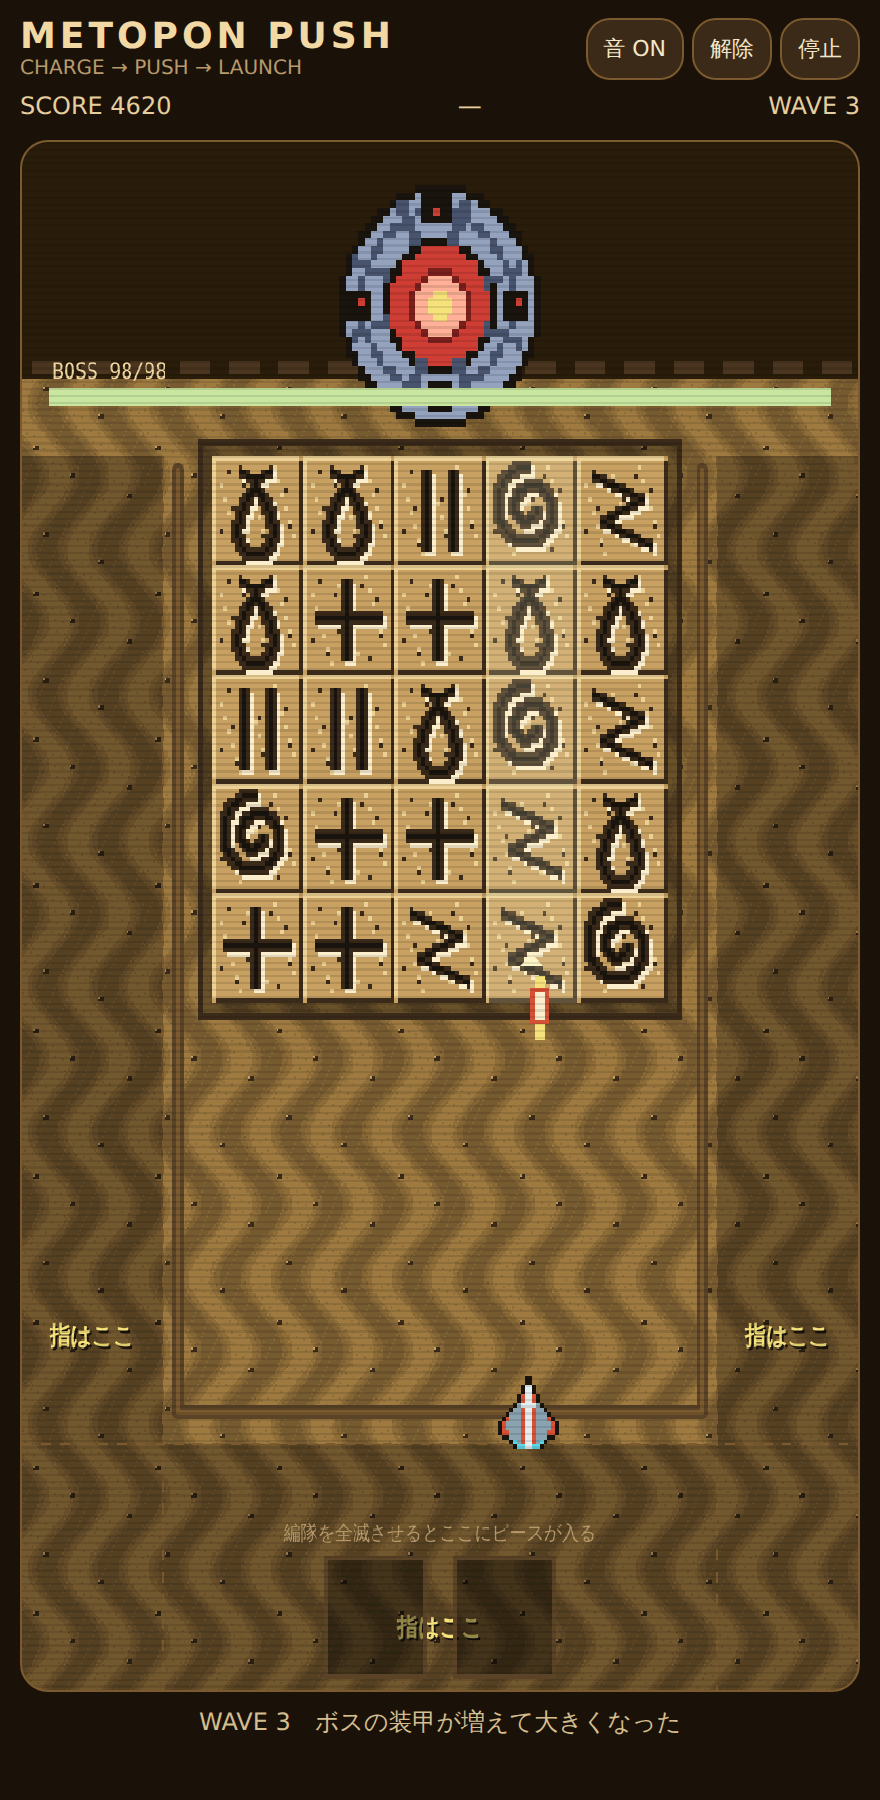
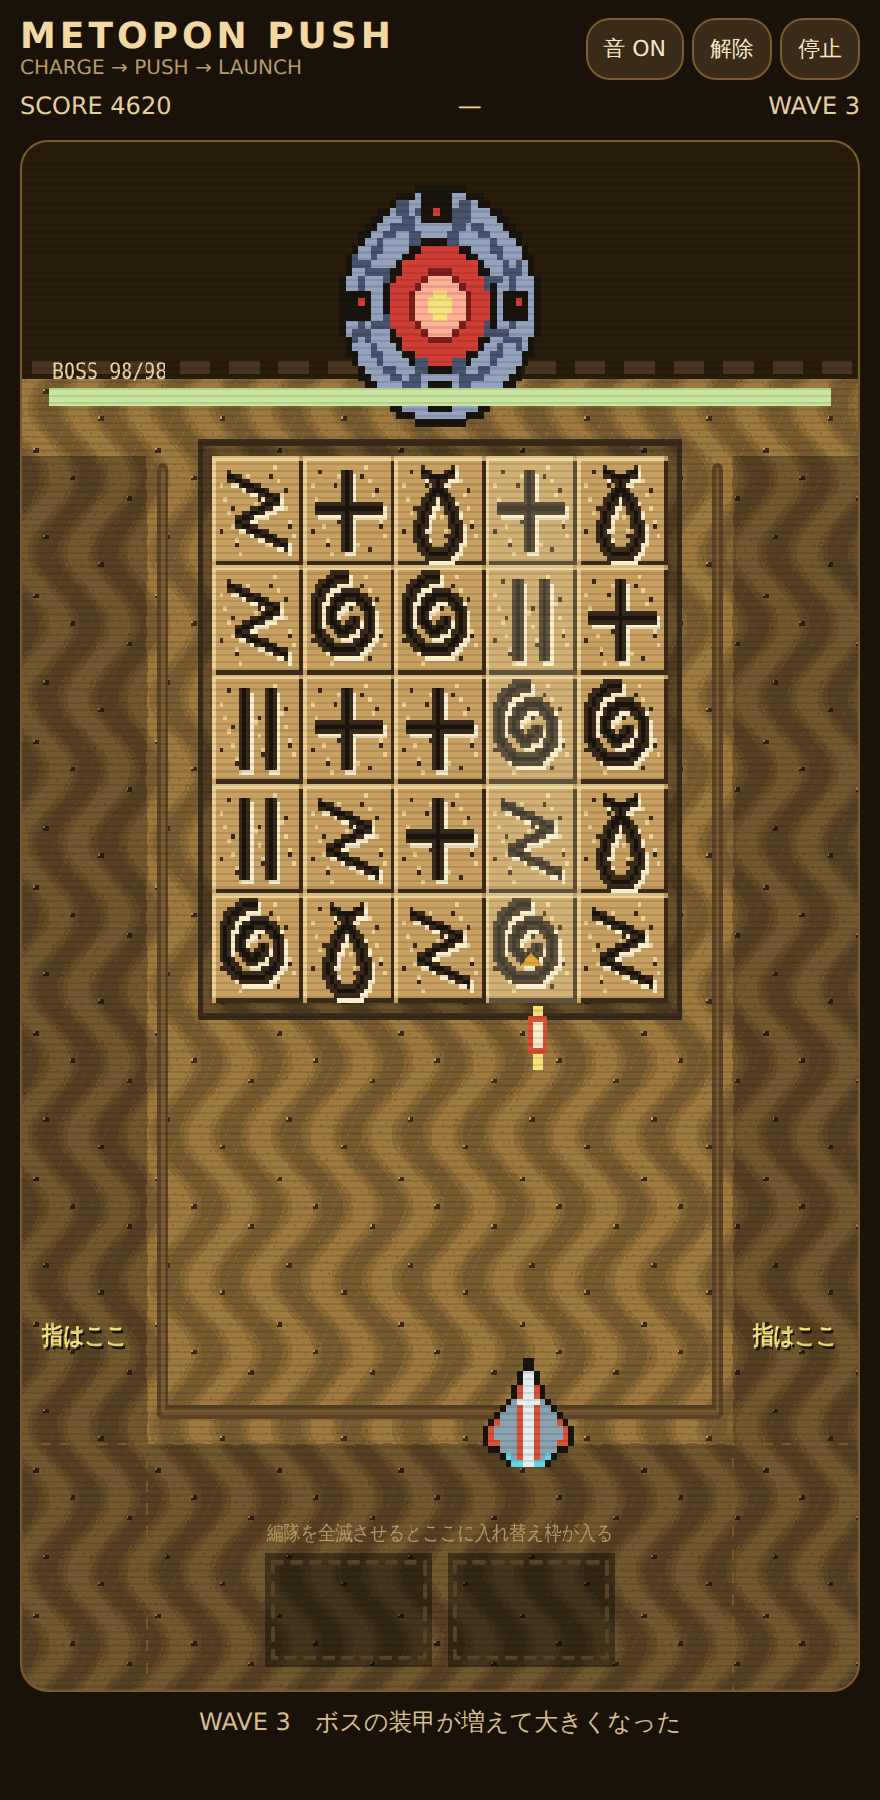
PUSH：自機と雑魚をピースと同じ大きさにし、ストックを入れ替え枠にする
- 自機と雑魚を 1マス分（48px）にそろえた。雑魚の大小の作り分けはやめて
  すべて同じ大きさにし、レールを盤面から少し離して自機が枠に重ならないようにした
- 雑魚は弾1発で落ちるようにした（チャージ段数に関係なく一撃）
- ストックはピースそのものをやめ、「ピース横2つ分の白い枠」に変更。
  盤面へドラッグすると横2マスに吸着し、離すとその2マスが入れ替わる
  - 同じ模様どうし、固定されたでっかいナスの上では使えない（枠が赤くなる）
  - 使えなかった場合は消費しない
- 編隊が落とすものも白い枠に変更
- 下の「指はここ」はストック枠と重なるので消した

Claude-Session: https://claude.ai/code/session_012ZE5AbEUzKXZhLuibuxWsM

diff --git a/docs/push.md b/docs/push.md
@@ -64,18 +64,28 @@
 編隊は盤面より下の帯に居座り、左右に振れながらゆっくり降りていく。
 盤面を隠さず、レールから撃てる高さ。
 
+**雑魚は弾1発で落ちる**（チャージ0段でも1発）。
+**自機も雑魚もピースと同じ1マス分の大きさ**にそろえてある。
+
 **弾は雑魚にも当たる**ので、撃ち落とさないと弾を食われてレーンに届かない。
 
-**編隊を全滅させると**その場でピースがピーンと飛び出し、少し見せてから
-**画面下の2つの枠**へ降りてくる（+600点）。
+**編隊を全滅させると**その場で**入れ替え枠**がピーンと飛び出し、少し見せてから
+**画面下のストック（2つまで）**へ降りてくる（+600点）。
 
-### 枠のピースを盤面へドラッグ
-枠のピースを**盤面のマスへドラッグ**すると、そのマスと**入れ替わる**。
-押し出しだけでは作れない形を一手で作れるので、**大きなコンボの種**になる。
-枠が両方埋まっている時に新しいピースが出ると、古い方が押し出される。
+### 入れ替え枠
+ストックにあるのは**ピースそのものではなく、ピース横2つ分の白い枠**。
+
+盤面へ**ドラッグ**すると、重なる横2マスにぴたりと吸着し、
+離すと**その2マスが入れ替わる**。押し出しだけでは作れない形を一手で作れるので、
+**大きなコンボの種**になる。
+
+- 同じ模様どうしには使えない（変わらないので無駄打ちを防ぐ）。
+- 固定された**でっかいナスの上では使えない**。
+- 使えない場所では枠が赤くなり、離しても消費されない。
+- ストックが両方埋まっている時に新しい枠が出ると、古い方が押し出される。
 
 これが「編隊を全滅させる」ことのごほうび。
-逃してもペナルティは無い（下へ抜けるだけ）が、ピースももらえない。
+逃してもペナルティは無い（下へ抜けるだけ）が、枠ももらえない。
 
 ## 手応えの出し方
 当たった瞬間に数字が飛び出す。
@@ -120,7 +130,8 @@ iPhone は着信スイッチが「消音」だと WebAudio ごと黙ってしま
 
 ## これから確かめること
 チャージの段数（0.3秒刻み・最大3）が気持ちよいか。1マスずつ連打と3マスまとめ押しの使い分け。
-5×5固定で 4×4 のナスを狙えるか（枠のピース2つで足りるか）。
+5×5固定で 4×4 のナスを狙えるか（入れ替え枠2つで足りるか）。
+横の入れ替えだけで足りるか、縦も要るか。
 編隊の湧きの間隔と降りる速さ。数字演出の量は多すぎないか。
 雑魚を逃した時のデメリットを何にするか（盤面を勝手にいじる以外で）。
 指の帯の広さは足りているか。発射までの1.8秒の使い道。
